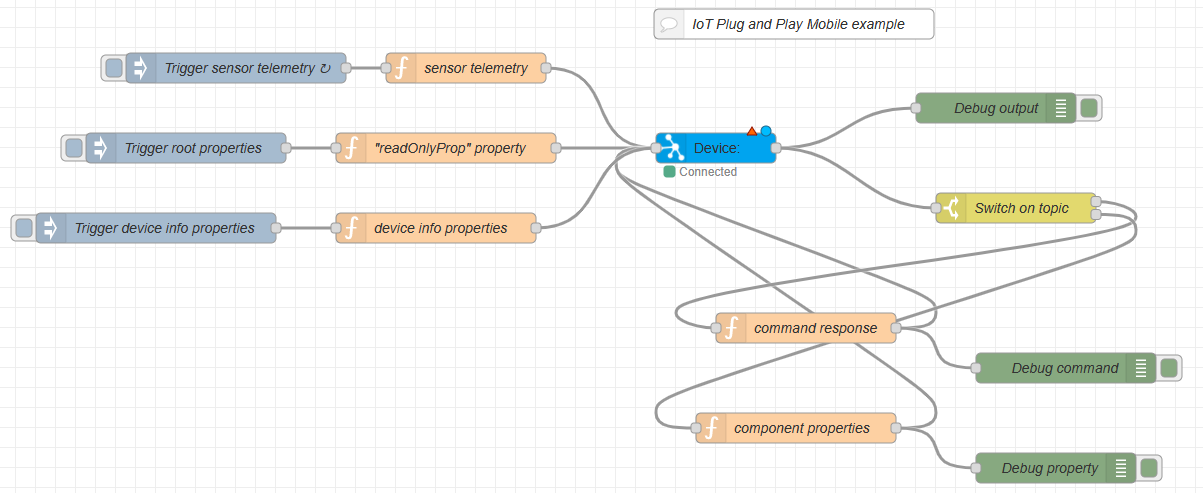
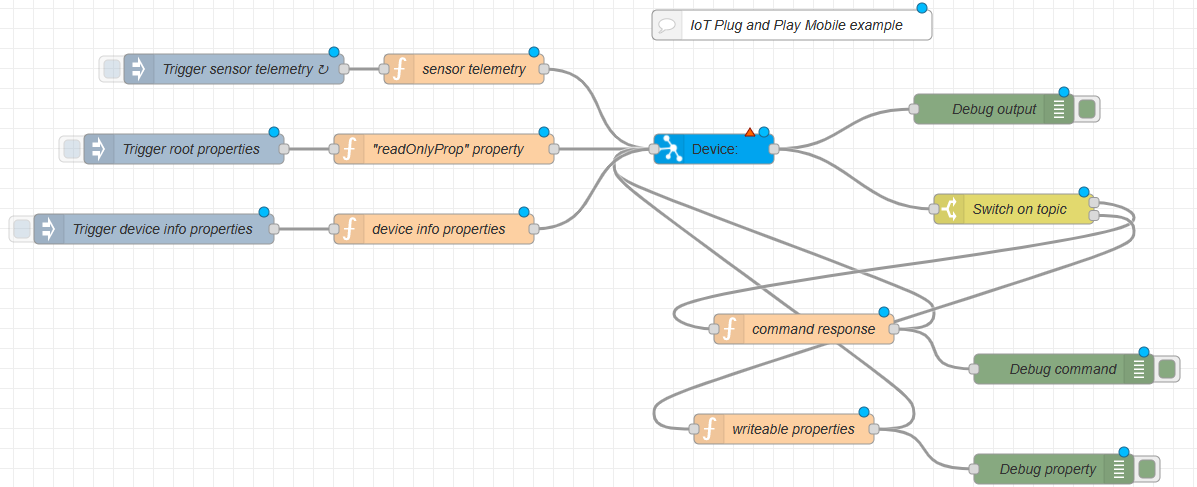
Updated documentation

diff --git a/USE.md b/USE.md
@@ -206,5 +206,5 @@ The flow will look like this:
 
 Paste the following code into the "Import nodes" dialog.
 ```json
-[{"id":"32776004.8f91f","type":"azureiotdevice","z":"6615b69a.328748","deviceid":"","pnpModelid":"","connectiontype":"dps","authenticationmethod":"sas","iothub":"","isIotcentral":true,"scopeid":"","enrollmenttype":"group","saskey":"","certname":"","keyname":"","passphrase":"","protocol":"mqtt","retryInterval":"4","methods":[{"name":"lightOn"},{"name":"sensors*enableSensors"},{"name":"sensors*changeInterval"}],"DPSpayload":"","gatewayHostname":"","caname":"","cert":"","ca":"","x":740,"y":180,"wires":[["c614bf9a.bfe9","12c63560.b421bb"]]},{"id":"c614bf9a.bfe9","type":"debug","z":"6615b69a.328748","name":"Debug output","active":true,"tosidebar":true,"console":false,"tostatus":false,"complete":"true","targetType":"full","statusVal":"","statusType":"auto","x":1020,"y":140,"wires":[]},{"id":"c5cbee63.8acc","type":"inject","z":"6615b69a.328748","name":"Trigger sensor telemetry","props":[{"p":"payload"},{"p":"topic","vt":"str"}],"repeat":"5","crontab":"","once":true,"onceDelay":0.1,"topic":"","payload":"","payloadType":"date","x":260,"y":100,"wires":[["98321138.42501"]]},{"id":"98321138.42501","type":"function","z":"6615b69a.328748","name":"sensor telemetry","func":"msg = {\n    'topic': 'telemetry',\n    'payload': {\n        'battery': Math.floor(Math.random() * 101),\n        'accelerometer': {\n            'x': Math.round((Math.random()*101) * 100000)/100000,\n            'y': Math.round((Math.random()*101) * 100000)/100000,\n            'z': Math.round((Math.random()*101) * 100000)/100000\n        },\n        'gyroscope': {\n            'x': Math.round((Math.random()*101) * 100000)/100000,\n            'y': Math.round((Math.random()*101) * 100000)/100000,\n            'z': Math.round((Math.random()*101) * 100000)/100000\n        },\n        'magnetometer': {\n            'x': Math.round((Math.random()*101) * 100000)/100000,\n            'y': Math.round((Math.random()*101) * 100000)/100000,\n            'z': Math.round((Math.random()*101) * 100000)/100000\n        },\n        'barometer': 850 + (Math.round(35000*Math.random())/100),\n        'geolocation': {\n            \"lat\": Math.round((Math.random()*.1 + 47.6) * 10000)/10000,\n            \"lon\": Math.round((Math.random()*.1 - 122.1) * 10000)/10000,\n            \"alt\": Math.floor(Math.random() * 10001)\n        }\n    },\n    'properties': [\n        {'key':'$.sub', 'value': 'sensors'}\n    ]\n}\nreturn msg;","outputs":1,"noerr":0,"initialize":"","finalize":"","x":490,"y":100,"wires":[["32776004.8f91f"]]},{"id":"31337ada.642326","type":"inject","z":"6615b69a.328748","name":"Trigger root properties","props":[{"p":"payload"},{"p":"topic","vt":"str"}],"repeat":"","crontab":"","once":false,"onceDelay":0.1,"topic":"","payload":"","payloadType":"date","x":210,"y":180,"wires":[["c5d662d9.e8e51"]]},{"id":"c5d662d9.e8e51","type":"function","z":"6615b69a.328748","name":"\"readOnlyProp\" property","func":"msg = {\n    'topic': 'property',\n    'payload': { 'readOnlyProp': 'Node-Red ReadOnlyProp'}\n}\nreturn msg;","outputs":1,"noerr":0,"initialize":"","finalize":"","x":470,"y":180,"wires":[["32776004.8f91f"]]},{"id":"f10e080b.e5c688","type":"function","z":"6615b69a.328748","name":"command response","func":"if (msg.topic == \"command\") {\n   var responseMsg = {\n       \"topic\": \"response\",\n       \"payload\": {\n            \"requestId\": msg.payload.requestId,\n            \"methodName\": msg.payload.methodName,\n            \"status\": 200,\n            \"payload\": msg.payload.payload\n       }\n   };\n   return responseMsg;\n}\n","outputs":1,"noerr":0,"initialize":"","finalize":"","x":830,"y":360,"wires":[["32776004.8f91f","d23a7679.c30678"]]},{"id":"c0620f79.e9d71","type":"function","z":"6615b69a.328748","name":"component properties","func":"\ndelete msg.payload.$version;\nreturn msg;","outputs":1,"noerr":0,"initialize":"","finalize":"","x":820,"y":460,"wires":[["32776004.8f91f","6bdc432d.adb32c"]]},{"id":"f0d3aa72.4fe9a8","type":"comment","z":"6615b69a.328748","name":"IoT Plug and Play Mobile example","info":"This flow show how to use the Azure IOT Device node to connet to Azure IoT Central, using the Plig and Play Mobile device template.","x":818,"y":56,"wires":[]},{"id":"12c63560.b421bb","type":"switch","z":"6615b69a.328748","name":"Switch on topic","property":"topic","propertyType":"msg","rules":[{"t":"cont","v":"command","vt":"str"},{"t":"cont","v":"property","vt":"str"}],"checkall":"false","repair":false,"outputs":2,"x":1040,"y":240,"wires":[["f10e080b.e5c688"],["c0620f79.e9d71"]]},{"id":"acec1054.0ab04","type":"function","z":"6615b69a.328748","name":"device info properties","func":"msg = {\n    'topic': 'property',\n    'payload': { \n        'device_info':{\n            'manufacturer': 'IoT Blackbelt',\n            'model': 'node-red-contrib-azure-iot-device',\n            'swVersion': '0.2.5',\n            'osName': 'Node-Red',\n            'processorArchitecture': 'unknown',\n            'processorManufacturer': 'unknown',\n            'totalStorage': '2048000',\n            'totalMemory': '256000'\n        }\n    }\n}\nreturn msg;","outputs":1,"noerr":0,"initialize":"","finalize":"","x":460,"y":260,"wires":[["32776004.8f91f"]]},{"id":"8d411fb4.d91e3","type":"inject","z":"6615b69a.328748","name":"Trigger device info properties","props":[{"p":"payload"},{"p":"topic","vt":"str"}],"repeat":"","crontab":"","once":false,"onceDelay":0.1,"topic":"","payload":"","payloadType":"date","x":180,"y":260,"wires":[["acec1054.0ab04"]]},{"id":"6bdc432d.adb32c","type":"debug","z":"6615b69a.328748","name":"Debug property","active":true,"tosidebar":true,"console":false,"tostatus":false,"complete":"true","targetType":"full","statusVal":"","statusType":"auto","x":1080,"y":500,"wires":[]},{"id":"d23a7679.c30678","type":"debug","z":"6615b69a.328748","name":"Debug command","active":true,"tosidebar":true,"console":false,"tostatus":false,"complete":"true","targetType":"full","statusVal":"","statusType":"auto","x":1090,"y":400,"wires":[]}]
+[{"id":"32776004.8f91f","type":"azureiotdevice","z":"52c072a8.81e16c","deviceid":"","pnpModelid":"","connectiontype":"dps","authenticationmethod":"sas","iothub":"","isIotcentral":true,"scopeid":"","enrollmenttype":"group","saskey":"","certname":"","keyname":"","passphrase":"","protocol":"mqtt","retryInterval":"4","methods":[{"name":"lightOn"},{"name":"sensors*enableSensors"},{"name":"sensors*changeInterval"}],"DPSpayload":"","gatewayHostname":"","caname":"","cert":"","key":"","ca":"","x":760,"y":200,"wires":[["c614bf9a.bfe9","12c63560.b421bb"]]},{"id":"c614bf9a.bfe9","type":"debug","z":"52c072a8.81e16c","name":"Debug output","active":true,"tosidebar":true,"console":false,"tostatus":false,"complete":"true","targetType":"full","statusVal":"","statusType":"auto","x":1040,"y":160,"wires":[]},{"id":"c5cbee63.8acc","type":"inject","z":"52c072a8.81e16c","name":"Trigger sensor telemetry","props":[{"p":"payload"},{"p":"topic","vt":"str"}],"repeat":"5","crontab":"","once":true,"onceDelay":0.1,"topic":"","payload":"","payloadType":"date","x":280,"y":120,"wires":[["98321138.42501"]]},{"id":"98321138.42501","type":"function","z":"52c072a8.81e16c","name":"sensor telemetry","func":"msg = {\n    'topic': 'telemetry',\n    'payload': {\n        'battery': Math.floor(Math.random() * 101),\n        'accelerometer': {\n            'x': Math.round((Math.random()*101) * 100000)/100000,\n            'y': Math.round((Math.random()*101) * 100000)/100000,\n            'z': Math.round((Math.random()*101) * 100000)/100000\n        },\n        'gyroscope': {\n            'x': Math.round((Math.random()*101) * 100000)/100000,\n            'y': Math.round((Math.random()*101) * 100000)/100000,\n            'z': Math.round((Math.random()*101) * 100000)/100000\n        },\n        'magnetometer': {\n            'x': Math.round((Math.random()*101) * 100000)/100000,\n            'y': Math.round((Math.random()*101) * 100000)/100000,\n            'z': Math.round((Math.random()*101) * 100000)/100000\n        },\n        'barometer': 850 + (Math.round(35000*Math.random())/100),\n        'geolocation': {\n            \"lat\": Math.round((Math.random()*.1 + 47.6) * 10000)/10000,\n            \"lon\": Math.round((Math.random()*.1 - 122.1) * 10000)/10000,\n            \"alt\": Math.floor(Math.random() * 10001)\n        }\n    },\n    'properties': [\n        {'key':'$.sub', 'value': 'sensors'}\n    ]\n}\nreturn msg;","outputs":1,"noerr":0,"initialize":"","finalize":"","x":510,"y":120,"wires":[["32776004.8f91f"]]},{"id":"31337ada.642326","type":"inject","z":"52c072a8.81e16c","name":"Trigger root properties","props":[{"p":"payload"},{"p":"topic","vt":"str"}],"repeat":"","crontab":"","once":false,"onceDelay":0.1,"topic":"","payload":"","payloadType":"date","x":230,"y":200,"wires":[["c5d662d9.e8e51"]]},{"id":"c5d662d9.e8e51","type":"function","z":"52c072a8.81e16c","name":"\"readOnlyProp\" property","func":"msg = {\n    'topic': 'property',\n    'payload': { 'readOnlyProp': 'Node-Red ReadOnlyProp'}\n}\nreturn msg;","outputs":1,"noerr":0,"initialize":"","finalize":"","x":490,"y":200,"wires":[["32776004.8f91f"]]},{"id":"f10e080b.e5c688","type":"function","z":"52c072a8.81e16c","name":"command response","func":"if (msg.topic == \"command\") {\n   var responseMsg = {\n       \"topic\": \"response\",\n       \"payload\": {\n            \"requestId\": msg.payload.requestId,\n            \"methodName\": msg.payload.methodName,\n            \"status\": 200,\n            \"payload\": msg.payload.payload\n       }\n   };\n   return responseMsg;\n}\n","outputs":1,"noerr":0,"initialize":"","finalize":"","x":850,"y":380,"wires":[["32776004.8f91f","d23a7679.c30678"]]},{"id":"c0620f79.e9d71","type":"function","z":"52c072a8.81e16c","name":"writeable properties","func":"\ndelete msg.payload.$version;\nreturn msg;","outputs":1,"noerr":0,"initialize":"","finalize":"","x":830,"y":480,"wires":[["32776004.8f91f","6bdc432d.adb32c"]]},{"id":"f0d3aa72.4fe9a8","type":"comment","z":"52c072a8.81e16c","name":"IoT Plug and Play Mobile example","info":"This flow show how to use the Azure IOT Device node to connet to Azure IoT Central, using the Plig and Play Mobile device template.","x":838,"y":76,"wires":[]},{"id":"12c63560.b421bb","type":"switch","z":"52c072a8.81e16c","name":"Switch on topic","property":"topic","propertyType":"msg","rules":[{"t":"cont","v":"command","vt":"str"},{"t":"cont","v":"property","vt":"str"}],"checkall":"false","repair":false,"outputs":2,"x":1060,"y":260,"wires":[["f10e080b.e5c688"],["c0620f79.e9d71"]]},{"id":"acec1054.0ab04","type":"function","z":"52c072a8.81e16c","name":"device info properties","func":"msg = {\n    'topic': 'property',\n    'payload': { \n        'device_info':{\n            'manufacturer': 'IoT Blackbelt',\n            'model': 'node-red-contrib-azure-iot-device',\n            'swVersion': '0.2.5',\n            'osName': 'Node-Red',\n            'processorArchitecture': 'unknown',\n            'processorManufacturer': 'unknown',\n            'totalStorage': '2048000',\n            'totalMemory': '256000'\n        }\n    }\n}\nreturn msg;","outputs":1,"noerr":0,"initialize":"","finalize":"","x":480,"y":280,"wires":[["32776004.8f91f"]]},{"id":"8d411fb4.d91e3","type":"inject","z":"52c072a8.81e16c","name":"Trigger device info properties","props":[{"p":"payload"},{"p":"topic","vt":"str"}],"repeat":"","crontab":"","once":false,"onceDelay":0.1,"topic":"","payload":"","payloadType":"date","x":200,"y":280,"wires":[["acec1054.0ab04"]]},{"id":"6bdc432d.adb32c","type":"debug","z":"52c072a8.81e16c","name":"Debug property","active":true,"tosidebar":true,"console":false,"tostatus":false,"complete":"true","targetType":"full","statusVal":"","statusType":"auto","x":1100,"y":520,"wires":[]},{"id":"d23a7679.c30678","type":"debug","z":"52c072a8.81e16c","name":"Debug command","active":true,"tosidebar":true,"console":false,"tostatus":false,"complete":"true","targetType":"full","statusVal":"","statusType":"auto","x":1110,"y":420,"wires":[]}]
 ```
